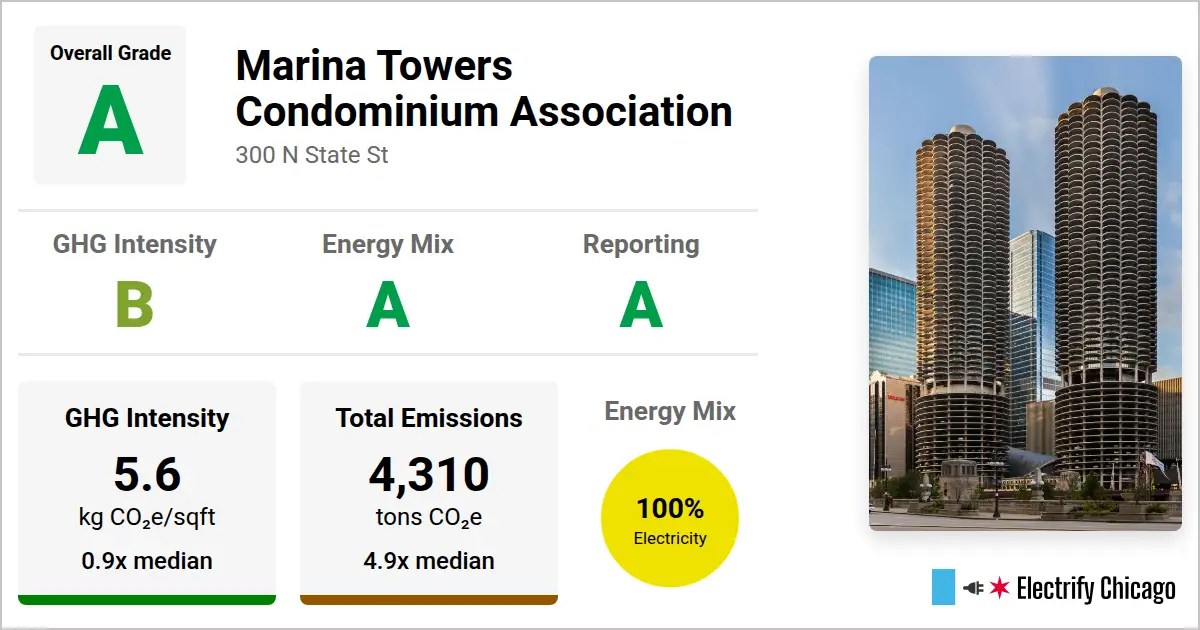
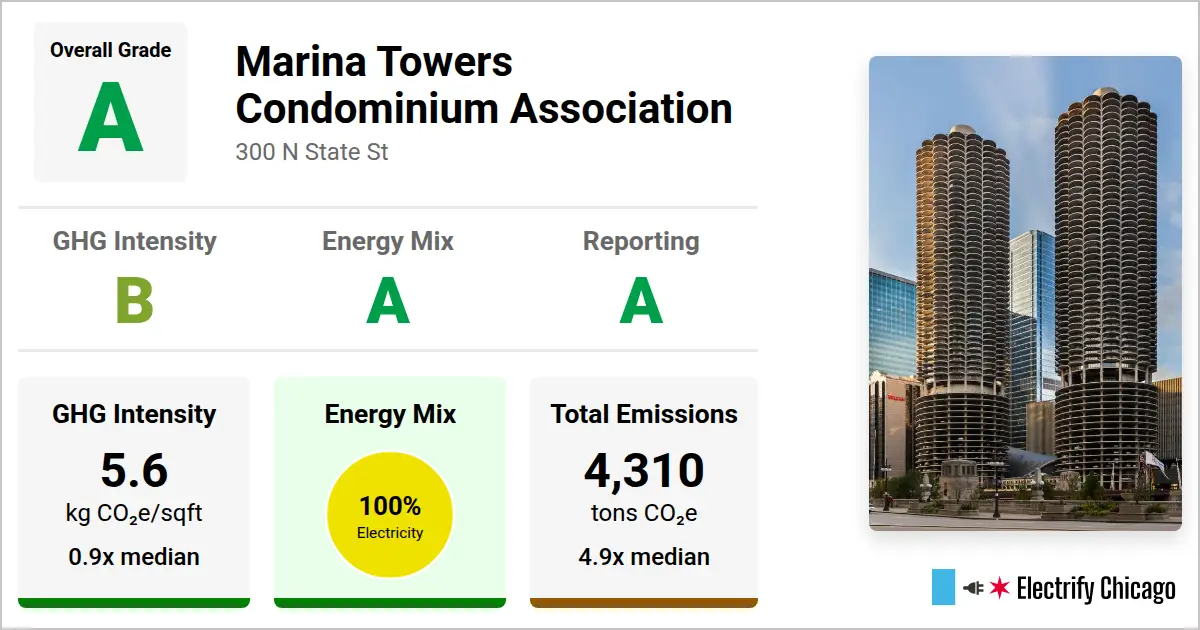
Make SocialCard energy mix in colored panel Regenerated test images with the new styling

diff --git a/src/components/SocialCard.vue b/src/components/SocialCard.vue
@@ -70,6 +70,25 @@
             <div
               class="stat-item"
               :class="{
+                'concern-level-very-bad': energyMixConcernLevel === 4,
+                'concern-level-bad': energyMixConcernLevel === 3,
+                'concern-level-medium': energyMixConcernLevel === 2,
+                'concern-level-good': energyMixConcernLevel === 1,
+                'concern-level-great': energyMixConcernLevel === 0,
+              }"
+            >
+              <div class="stat-label text-center">Energy Mix</div>
+              <div class="pie-chart-cont-inline">
+                <PieChart
+                  :id-prefix="'social-energy-mix'"
+                  :graph-data="energyBreakdownData"
+                />
+              </div>
+            </div>
+
+            <div
+              class="stat-item"
+              :class="{
                 'concern-level-very-bad': totalEmissionsConcernLevel === 4,
                 'concern-level-bad': totalEmissionsConcernLevel === 3,
                 'concern-level-medium': totalEmissionsConcernLevel === 2,
@@ -92,16 +111,6 @@
                   }}
                   tons CO₂e
                 </div>
-              </div>
-            </div>
-
-            <div class="stat-item -no-background">
-              <div class="stat-label text-center">Energy Mix</div>
-              <div class="pie-chart-cont-inline">
-                <PieChart
-                  :id-prefix="'social-energy-mix'"
-                  :graph-data="energyBreakdownData"
-                />
               </div>
             </div>
           </div>
@@ -180,6 +189,22 @@ export default class SocialCard extends Vue {
   /** Get concern level for Total Emissions */
   get totalEmissionsConcernLevel(): number | null {
     return getConcernLevel(this.building, 'TotalGHGEmissions', this.stats);
+  }
+
+  /** Get concern level for Energy Mix based on letter grade */
+  get energyMixConcernLevel(): number | null {
+    const grade = this.building.EnergyMixLetterGrade;
+    if (!grade) return null;
+
+    // Convert letter grade to concern level
+    switch (grade) {
+      case 'A': return 0; // great
+      case 'B': return 1; // good
+      case 'C': return 2; // medium
+      case 'D': return 3; // bad
+      case 'F': return 4; // very bad
+      default: return null;
+    }
   }
 
   /** Get median multiple message for GHG Intensity */
@@ -328,7 +353,7 @@ export default class SocialCard extends Vue {
   // Override PieChart default sizing for inline display and hide labels, since
   // you acn't read them at that size anyway
   :deep(svg) {
-    width: 11rem;
+    width: 10rem;
     transform: scale(1.6) translate(0, 0.15rem);
 
     // Hide any external labels - allow internal labels like 100% electric
@@ -372,6 +397,7 @@ export default class SocialCard extends Vue {
   text-align: center;
   border-bottom-width: 0.625rem;
   border-bottom-style: solid;
+  height: 100%;
 
   &.-no-background {
     background: none;
